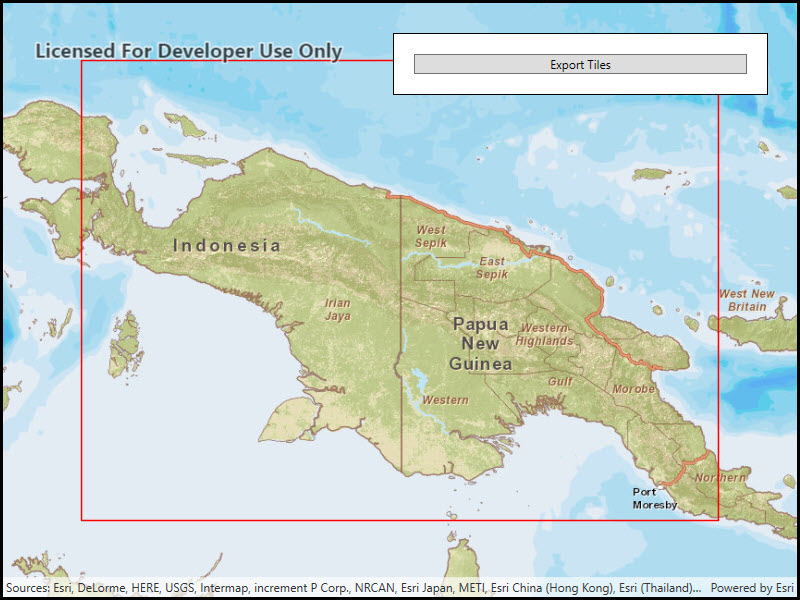
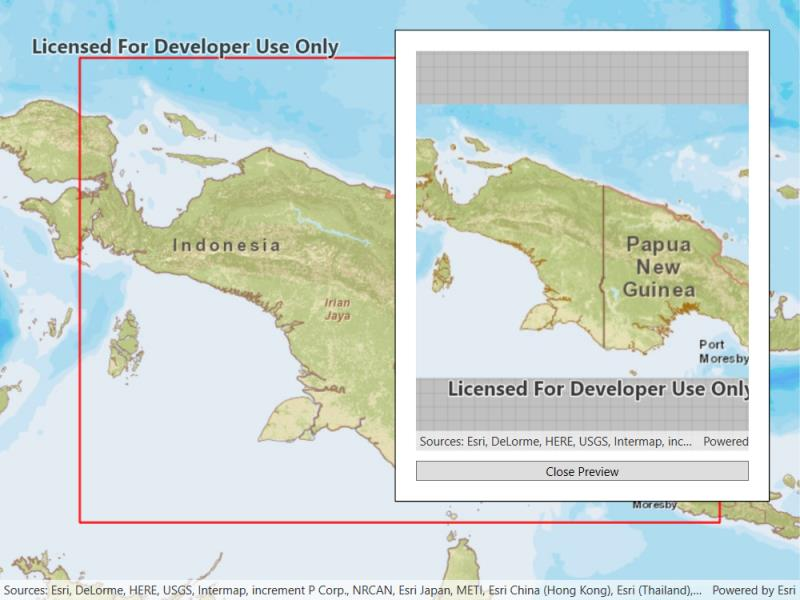
Updated WPF samples based on PR feedback

diff --git a/src/WPF/ArcGISRuntime.WPF.Viewer/Samples/Layers/ExportTiles/ExportTiles.xaml b/src/WPF/ArcGISRuntime.WPF.Viewer/Samples/Layers/ExportTiles/ExportTiles.xaml
@@ -13,10 +13,12 @@
                 <Grid>
                     <ProgressBar x:Name="MyProgressBar"
                                  MinHeight="10"
+                                 Margin="0,10,0,0"
                                  Maximum="100"
                                  Minimum="0"
                                  Visibility="Collapsed" />
                     <TextBlock x:Name="MyProgressBarLabel"
+                               Margin="0,10,0,0"
                                HorizontalAlignment="Center"
                                VerticalAlignment="Center"
                                Text="{Binding ElementName=MyProgressBar, Path=Value, StringFormat={}{0:0}%}"
@@ -24,13 +26,14 @@
                 </Grid>
                 <esri:MapView x:Name="MyPreviewMapView"
                               Width="375"
-                              Height="400"
+                              Height="280"
                               Visibility="Collapsed" />
                 <Button x:Name="MyCancelJobButton"
                         Click="CancelJobButton_Click"
                         Content="Cancel"
                         Visibility="Collapsed" />
                 <Button x:Name="MyClosePreviewButton"
+                        Margin="0,10,0,0"
                         Click="ClosePreview_Click"
                         Content="Close Preview"
                         Visibility="Collapsed" />

diff --git a/src/WPF/ArcGISRuntime.WPF.Viewer/Samples/Layers/ExportVectorTiles/ExportVectorTiles.xaml b/src/WPF/ArcGISRuntime.WPF.Viewer/Samples/Layers/ExportVectorTiles/ExportVectorTiles.xaml
@@ -13,10 +13,12 @@
                 <Grid>
                     <ProgressBar x:Name="MyProgressBar"
                                  MinHeight="10"
+                                 Margin="0,10,0,0"
                                  Maximum="100"
                                  Minimum="0"
                                  Visibility="Collapsed" />
                     <TextBlock x:Name="MyProgressBarLabel"
+                               Margin="0,10,0,0"
                                HorizontalAlignment="Center"
                                VerticalAlignment="Center"
                                Text="{Binding ElementName=MyProgressBar, Path=Value, StringFormat={}{0:0}%}"
@@ -25,13 +27,14 @@
 
                 <esri:MapView x:Name="MyPreviewMapView"
                               Width="375"
-                              Height="400"
+                              Height="280"
                               Visibility="Collapsed" />
                 <Button x:Name="MyCancelJobButton"
                         Click="MyCancelJobButton_Click"
                         Content="Cancel"
                         Visibility="Collapsed" />
                 <Button x:Name="MyClosePreviewButton"
+                        Margin="0,10,0,0"
                         Click="MyClosePreviewButton_Click"
                         Content="Close Preview"
                         Visibility="Collapsed" />

diff --git a/src/WPF/ArcGISRuntime.WPF.Viewer/Samples/Layers/ExportVectorTiles/ExportVectorTiles.xaml.cs b/src/WPF/ArcGISRuntime.WPF.Viewer/Samples/Layers/ExportVectorTiles/ExportVectorTiles.xaml.cs
@@ -100,37 +100,17 @@ namespace ArcGISRuntime.WPF.Samples.ExportVectorTiles
             // Create the export job.
             _job = exportTask.ExportVectorTiles(parameters, tilePath, itemResourcePath);
 
-            // Set the value of the progress bar to 0, this clears any previous progress on the bar.
+            // Update the UI.
             MyProgressBar.Value = 0;
-
-            // Show the progress bar and label.
             MyProgressBar.Visibility = Visibility.Visible;
             MyProgressBarLabel.Visibility = Visibility.Visible;
-
-            // Show the cancel job button.
             MyCancelJobButton.Visibility = Visibility.Visible;
 
             // Add an event handler to update the progress bar as the task progresses.
-            _job.ProgressChanged += (s, e) =>
-            {
-                Dispatcher.Invoke(() =>
-                {
-                    MyProgressBar.Value = _job.Progress;
-                });
-            };
+            _job.ProgressChanged += Job_ProgressChanged;
 
             // Add an event handler to hide the cancel job button if the job completes, fails or is cancelled.
-            _job.StatusChanged += (s, e) =>
-            {
-                Dispatcher.Invoke(() =>
-                {
-                    bool showCancelJobButton = (_job.Status != Esri.ArcGISRuntime.Tasks.JobStatus.Failed &&
-                                                _job.Status != Esri.ArcGISRuntime.Tasks.JobStatus.Succeeded &&
-                                                _job.Status != Esri.ArcGISRuntime.Tasks.JobStatus.Canceling);
-
-                    MyCancelJobButton.Visibility = showCancelJobButton ? Visibility.Visible : Visibility.Collapsed;
-                });
-            };
+            _job.StatusChanged += Job_StatusChanged;
 
             // Start the export job.
             _job.Start();
@@ -149,16 +129,10 @@ namespace ArcGISRuntime.WPF.Samples.ExportVectorTiles
                 // Show the exported tiles on the preview map.
                 await UpdatePreviewMap(vectorTilesResult);
 
-                // Show the preview window.
+                // Update the UI.
                 MyPreviewMapView.Visibility = Visibility.Visible;
-
-                // Show the 'close preview' button.
                 MyClosePreviewButton.Visibility = Visibility.Visible;
-
-                // Hide the 'export tiles' button.
                 MyExportButton.Visibility = Visibility.Collapsed;
-
-                // Hide the progress bar and label.
                 MyProgressBar.Visibility = Visibility.Collapsed;
                 MyProgressBarLabel.Visibility = Visibility.Collapsed;
             }
@@ -170,6 +144,10 @@ namespace ArcGISRuntime.WPF.Samples.ExportVectorTiles
                 // Hide the progress bar.
                 MyProgressBar.Visibility = Visibility.Collapsed;
             }
+
+            // Remove the event handlers.
+            _job.ProgressChanged -= Job_ProgressChanged;
+            _job.StatusChanged -= Job_StatusChanged;
         }
 
         #endregion Export Vector Tiles
@@ -245,16 +223,10 @@ namespace ArcGISRuntime.WPF.Samples.ExportVectorTiles
         {
             try
             {
-                // Hide the preview window.
+                // Update the UI.
                 MyPreviewMapView.Visibility = Visibility.Collapsed;
-
-                // Hide the 'close preview' button.
                 MyClosePreviewButton.Visibility = Visibility.Collapsed;
-
-                // Show the 'export tiles' button.
                 MyExportButton.Visibility = Visibility.Visible;
-
-                // Disable the 'export tiles' button.
                 MyExportButton.IsEnabled = false;
 
                 // Start the export.
@@ -268,16 +240,10 @@ namespace ArcGISRuntime.WPF.Samples.ExportVectorTiles
 
         private void MyClosePreviewButton_Click(object sender, RoutedEventArgs e)
         {
-            // Hide the preview map.
+            // Update the UI.
             MyPreviewMapView.Visibility = Visibility.Collapsed;
-
-            // Hide the close preview button.
             MyClosePreviewButton.Visibility = Visibility.Collapsed;
-
-            // Show the 'export tiles' button.
             MyExportButton.Visibility = Visibility.Visible;
-
-            // Re-enable the export button.
             MyExportButton.IsEnabled = true;
         }
 
@@ -287,16 +253,37 @@ namespace ArcGISRuntime.WPF.Samples.ExportVectorTiles
             {
                 _ = _job.CancelAsync();
 
-                // Hide the cancel job button.
-                MyCancelJobButton.Visibility = Visibility.Collapsed;
+                // Remove the event handlers.
+                _job.ProgressChanged -= Job_ProgressChanged;
+                _job.StatusChanged -= Job_StatusChanged;
 
-                // Hide the progress bar and label.
+                // Update the UI.
+                MyCancelJobButton.Visibility = Visibility.Collapsed;
                 MyProgressBar.Visibility = Visibility.Collapsed;
                 MyProgressBarLabel.Visibility = Visibility.Collapsed;
-
-                // Re-enable the export button.
                 MyExportButton.IsEnabled = true;
             }
+        }
+
+        private void Job_ProgressChanged(object sender, EventArgs e)
+        {
+            Dispatcher.Invoke(() =>
+            {
+                MyProgressBar.Value = _job.Progress;
+                MyProgressBarLabel.Text = $"{MyProgressBar.Value}%";
+            });
+        }
+
+        private void Job_StatusChanged(object sender, Esri.ArcGISRuntime.Tasks.JobStatus e)
+        {
+            Dispatcher.Invoke(() =>
+            {
+                bool showCancelJobButton = (_job.Status != Esri.ArcGISRuntime.Tasks.JobStatus.Failed &&
+                                            _job.Status != Esri.ArcGISRuntime.Tasks.JobStatus.Succeeded &&
+                                            _job.Status != Esri.ArcGISRuntime.Tasks.JobStatus.Canceling);
+
+                MyCancelJobButton.Visibility = showCancelJobButton ? Visibility.Visible : Visibility.Collapsed;
+            });
         }
 
         #endregion EventHandlers

diff --git a/src/WPF/ArcGISRuntime.WPF.Viewer/Samples/Layers/ExportTiles/ExportTiles.xaml.cs b/src/WPF/ArcGISRuntime.WPF.Viewer/Samples/Layers/ExportTiles/ExportTiles.xaml.cs
@@ -162,38 +162,17 @@ namespace ArcGISRuntime.WPF.Samples.ExportTiles
             // Create the export job.
             _job = exportTask.ExportTileCache(parameters, tilePath);
 
-            // Set the value of the progress bar to 0, this clears any previous progress on the bar.
+            // Update the UI.
             MyProgressBar.Value = 0;
-
-            // Show the progress bar and label.
             MyProgressBar.Visibility = Visibility.Visible;
             MyProgressBarLabel.Visibility = Visibility.Visible;
-
-            // Show the cancel job button.
             MyCancelJobButton.Visibility = Visibility.Visible;
 
             // Add an event handler to update the progress bar as the task progresses.
-            _job.ProgressChanged += (s, e) =>
-            {
-                Dispatcher.Invoke(() =>
-                {
-                    MyProgressBar.Value = _job.Progress;
-                });
-            };
+            _job.ProgressChanged += Job_ProgressChanged;
 
             // Add an event handler to hide the cancel job button if the job completes, fails or is cancelled.
-            _job.StatusChanged += (s, e) =>
-            {
-                Dispatcher.Invoke(() =>
-                {
-                    if (_job.Status == Esri.ArcGISRuntime.Tasks.JobStatus.Failed
-                    || _job.Status == Esri.ArcGISRuntime.Tasks.JobStatus.Succeeded
-                    || _job.Status == Esri.ArcGISRuntime.Tasks.JobStatus.Canceling)
-                    {
-                        MyCancelJobButton.Visibility = Visibility.Collapsed;
-                    }
-                });
-            };
+            _job.StatusChanged += Job_StatusChanged;
 
             // Start the export job.
             _job.Start();
@@ -212,16 +191,10 @@ namespace ArcGISRuntime.WPF.Samples.ExportTiles
                 // Show the exported tiles on the preview map.
                 await UpdatePreviewMap(cache);
 
-                // Show the preview window.
+                // Update the UI.
                 MyPreviewMapView.Visibility = Visibility.Visible;
-
-                // Show the 'close preview' button.
                 MyClosePreviewButton.Visibility = Visibility.Visible;
-
-                // Hide the 'export tiles' button.
                 MyExportButton.Visibility = Visibility.Collapsed;
-
-                // Hide the progress bar and progress bar label.
                 MyProgressBar.Visibility = Visibility.Collapsed;
                 MyProgressBarLabel.Visibility = Visibility.Collapsed;
             }
@@ -234,6 +207,10 @@ namespace ArcGISRuntime.WPF.Samples.ExportTiles
                 MyProgressBar.Visibility = Visibility.Collapsed;
                 MyProgressBarLabel.Visibility = Visibility.Collapsed;
             }
+
+            // Remove the event handlers.
+            _job.ProgressChanged -= Job_ProgressChanged;
+            _job.StatusChanged -= Job_StatusChanged;
         }
 
         private ExportTileCacheParameters GetExportParameters()
@@ -280,16 +257,10 @@ namespace ArcGISRuntime.WPF.Samples.ExportTiles
         {
             try
             {
-                // Hide the preview window.
+                // Update the UI.
                 MyPreviewMapView.Visibility = Visibility.Collapsed;
-
-                // Hide the 'close preview' button.
                 MyClosePreviewButton.Visibility = Visibility.Collapsed;
-
-                // Show the 'export tiles' button.
                 MyExportButton.Visibility = Visibility.Visible;
-
-                // Disable the 'export tiles' button.
                 MyExportButton.IsEnabled = false;
 
                 // Start the export.
@@ -308,16 +279,10 @@ namespace ArcGISRuntime.WPF.Samples.ExportTiles
 
         private void ClosePreview_Click(object sender, RoutedEventArgs e)
         {
-            // Hide the preview map.
+            // Update the UI.
             MyPreviewMapView.Visibility = Visibility.Collapsed;
-
-            // Hide the close preview button.
             MyClosePreviewButton.Visibility = Visibility.Collapsed;
-
-            // Show the 'export tiles' button.
             MyExportButton.Visibility = Visibility.Visible;
-
-            // Re-enable the export button.
             MyExportButton.IsEnabled = true;
         }
 
@@ -327,16 +292,37 @@ namespace ArcGISRuntime.WPF.Samples.ExportTiles
             {
                 _ = _job.CancelAsync();
 
-                // Hide the cancel job button.
-                MyCancelJobButton.Visibility = Visibility.Collapsed;
+                // Remove the event handlers.
+                _job.ProgressChanged -= Job_ProgressChanged;
+                _job.StatusChanged -= Job_StatusChanged;
 
-                // Hide the progress bar and label.
+                // Update the UI.
+                MyCancelJobButton.Visibility = Visibility.Collapsed;
                 MyProgressBar.Visibility = Visibility.Collapsed;
                 MyProgressBarLabel.Visibility = Visibility.Collapsed;
-
-                // Re-enable the export button.
                 MyExportButton.IsEnabled = true;
             }
+        }
+
+        private void Job_ProgressChanged(object sender, EventArgs e)
+        {
+            Dispatcher.Invoke(() =>
+            {
+                MyProgressBar.Value = _job.Progress;
+                MyProgressBarLabel.Text = $"{MyProgressBar.Value}%";
+            });
+        }
+
+        private void Job_StatusChanged(object sender, Esri.ArcGISRuntime.Tasks.JobStatus e)
+        {
+            Dispatcher.Invoke(() =>
+            {
+                bool showCancelJobButton = (_job.Status != Esri.ArcGISRuntime.Tasks.JobStatus.Failed &&
+                                            _job.Status != Esri.ArcGISRuntime.Tasks.JobStatus.Succeeded &&
+                                            _job.Status != Esri.ArcGISRuntime.Tasks.JobStatus.Canceling);
+
+                MyCancelJobButton.Visibility = showCancelJobButton ? Visibility.Visible : Visibility.Collapsed;
+            });
         }
     }
 }
